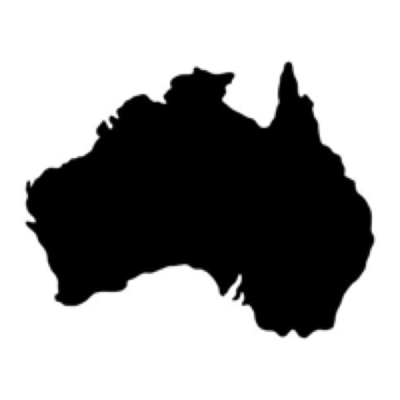
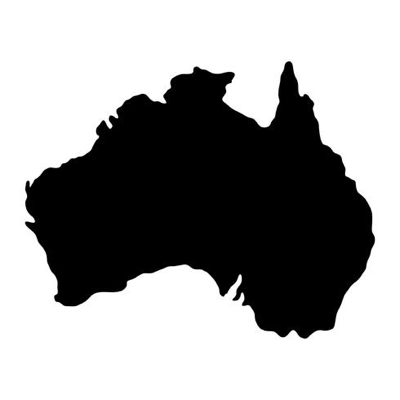
Add files via upload

diff --git a/index.html b/index.html
@@ -831,6 +831,50 @@
         {"r":3,"c":2,"type":"text","value":"12"},
         {"r":3,"c":3,"type":"text","value":"1"}
       ]
+    },
+    {
+      id: "2026-11-22",
+      until: "2026-11-23T01:00:00-08:00",
+      cells: [
+        {"r":0,"c":0,"type":"photo","value":"california.png"},
+        {"r":0,"c":1,"type":"photo","value":"daily2-r0c1.png"},
+        {"r":0,"c":2,"type":"text","value":"2"},
+        {"r":0,"c":3,"type":"photo","value":"daily2-r0c3.png"},
+        {"r":1,"c":0,"type":"shape","value":{"geom": "mathPlus", "color": "000000"}},
+        {"r":1,"c":1,"type":"photo","value":"daily2-r1c1.png"},
+        {"r":1,"c":2,"type":"photo","value":"daily2-r1c2.png"},
+        {"r":1,"c":3,"type":"text","value":"3"},
+        {"r":2,"c":0,"type":"shape","value":{"geom": "mathEqual", "color": "000000"}},
+        {"r":2,"c":1,"type":"photo","value":"daily2-r2c1.png"},
+        {"r":2,"c":2,"type":"photo","value":"daily2-r2c2.png"},
+        {"r":2,"c":3,"type":"photo","value":"daily2-r2c3.png"},
+        {"r":3,"c":0,"type":"photo","value":"texas.png"},
+        {"r":3,"c":1,"type":"photo","value":"daily2-r3c1.png"},
+        {"r":3,"c":2,"type":"photo","value":"daily2-r3c2.png"},
+        {"r":3,"c":3,"type":"photo","value":"florida.png"}
+      ]
+    },
+    {
+      id: "2026-11-23",
+      until: "2026-11-24T01:00:00-08:00",
+      cells: [
+        {"r":0,"c":0,"type":"photo","value":"taco.png"},
+        {"r":0,"c":1,"type":"photo","value":"donut.png"},
+        {"r":0,"c":2,"type":"photo","value":"pig.png"},
+        {"r":0,"c":3,"type":"shape","value":{"geom": "lightningBolt", "color": "FF0000"}},
+        {"r":1,"c":0,"type":"photo","value":"daily3-r1c0.png"},
+        {"r":1,"c":1,"type":"photo","value":"cookie.png"},
+        {"r":1,"c":2,"type":"photo","value":"orange.png"},
+        {"r":1,"c":3,"type":"shape","value":{"geom": "sun", "color": "FF9900"}},
+        {"r":2,"c":0,"type":"text","value":"84"},
+        {"r":2,"c":1,"type":"text","value":"8"},
+        {"r":2,"c":2,"type":"text","value":"4"},
+        {"r":2,"c":3,"type":"text","value":"48"},
+        {"r":3,"c":0,"type":"photo","value":"strawberry.png"},
+        {"r":3,"c":1,"type":"photo","value":"daily3-r3c1.png"},
+        {"r":3,"c":2,"type":"photo","value":"daily3-r3c2.png"},
+        {"r":3,"c":3,"type":"shape","value":{"geom": "smileyFace", "color": "FFFF00"}}
+      ]
     }
   ];
   const DAILY_STUDY_SECONDS = 12;
@@ -881,6 +925,10 @@
     mathPlus: (color) => `<div style="position:relative;width:60%;height:60%;">
         <div style="position:absolute;top:40%;left:0;width:100%;height:20%;background:${hex(color)};border-radius:3px;"></div>
         <div style="position:absolute;left:40%;top:0;height:100%;width:20%;background:${hex(color)};border-radius:3px;"></div>
+      </div>`,
+    mathEqual: (color) => `<div style="position:relative;width:60%;height:60%;">
+        <div style="position:absolute;top:22%;left:0;width:100%;height:17%;background:${hex(color)};border-radius:3px;"></div>
+        <div style="position:absolute;top:61%;left:0;width:100%;height:17%;background:${hex(color)};border-radius:3px;"></div>
       </div>`,
     star5: (color) => `<svg viewBox="0 0 100 100"><polygon fill="${hex(color)}" points="50,3 61,37 97,37 68,59 79,94 50,73 21,94 32,59 3,37 39,37"/></svg>`,
     heart: (color) => `<svg viewBox="0 0 32 29"><path fill="${hex(color)}" d="M16 29 C16 29 0 18 0 8 C0 2 4 0 8 0 C12 0 15 3 16 6 C17 3 20 0 24 0 C28 0 32 2 32 8 C32 18 16 29 16 29 Z"/></svg>`,
@@ -1220,15 +1268,22 @@
       const total = grid.cells.length;
       text.textContent = `You already played today's Daily Recall and got ${result.score} of ${total} correct. ` +
         `A new grid arrives every day at 1am Pacific.`;
-      appState.shareText = dailyShareText(result.score);
+      appState.shareText = dailyShareText(result.score, result.marks);
       shareBtn.style.display = "";
       shareBtn.textContent = "Share your score";
     }
     showScreen("screen-daily-done");
   }
 
-  function dailyShareText(score) {
-    return `I just scored ${score} on Daily Recall. Can you beat it?`;
+  // marks: 16-character string, row by row, "1" = right, "0" = wrong. Shared as a grid of green/red squares.
+  function dailyShareText(score, marks) {
+    let text = `I just scored ${score} on Daily Recall. Can you beat it?`;
+    if (marks && marks.length === 16) {
+      const rows = [];
+      for (let r = 0; r < 4; r++) rows.push(marks.slice(r * 4, r * 4 + 4).replace(/1/g, "\u{1F7E9}").replace(/0/g, "\u{1F7E5}"));
+      text += "\n\n" + rows.join("\n");
+    }
+    return text;
   }
 
   function onSelectMode(mode) {
@@ -1672,8 +1727,9 @@
 
     if (appState.mode.variant === "daily") {
       const total = arrange.zones.length, score = total - wrong.length;
-      saveDailyResult(appState.mode.dailyId, { score, finished: true, ts: Date.now() });
-      appState.shareText = dailyShareText(score);
+      const marks = arrange.zones.map(z => (wrong.includes(z) ? "0" : "1")).join("");   // zones are in row-by-row order
+      saveDailyResult(appState.mode.dailyId, { score, marks, finished: true, ts: Date.now() });
+      appState.shareText = dailyShareText(score, marks);
       const shareBtn = document.getElementById("btn-share-arrange");
       shareBtn.style.display = "";
       shareBtn.textContent = "Share your score";
@@ -1734,7 +1790,7 @@
     const url = location.origin + location.pathname.replace(/index\.html$/, "");
     const text = appState.shareText || "Try this memory game!";
     // Message and link go in ONE text string (no separate url field): some iPhone share targets keep only the url and drop the text.
-    const full = `${text} ${url}`;
+    const full = text.includes("\n") ? `${text}\n\n${url}` : `${text} ${url}`;
     if (navigator.share) {
       try {
         await navigator.share({ title: "Memory Game", text: full });
